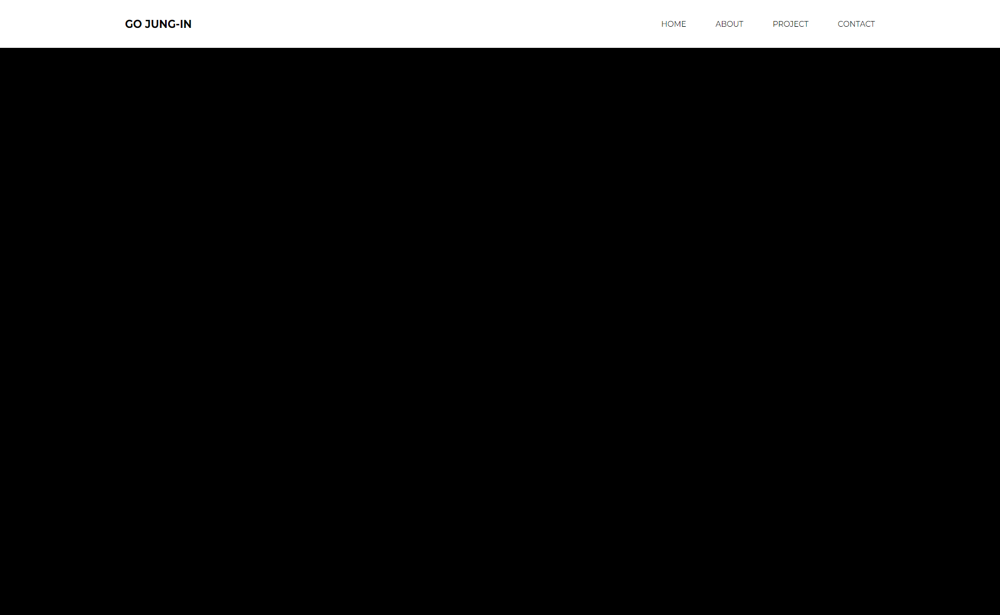
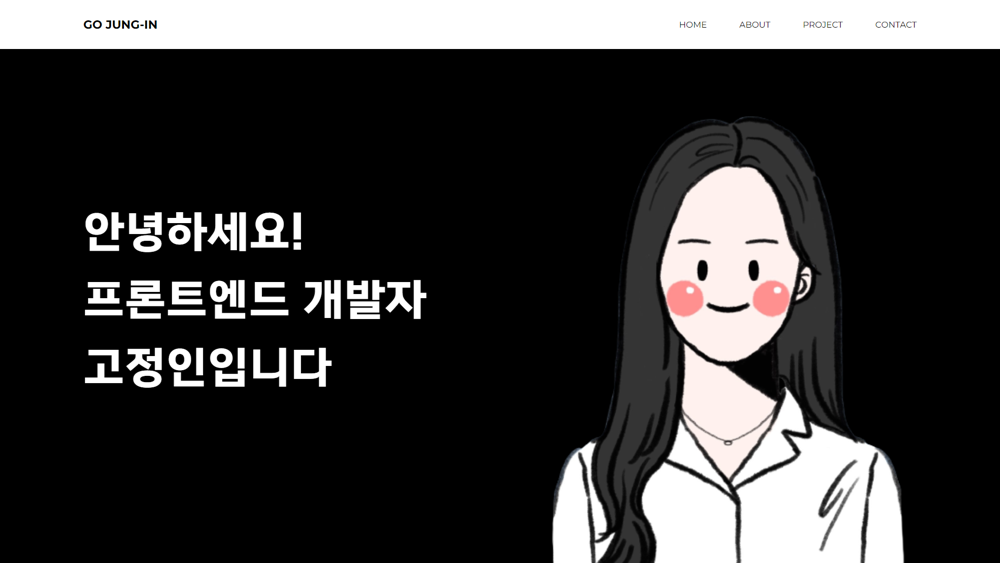
home

diff --git a/src/App.scss b/src/App.scss
@@ -1,23 +1,30 @@
 @import "./config/variables.scss";
 
 @font-face {
-	font-family: "Montserrat-Regular";
-	src: url("./assets/fonts/Montserrat-Regular.ttf") format("truetype");
+  font-family: "Montserrat-Regular";
+  src: url("./assets/fonts/Montserrat-Regular.ttf") format("truetype");
 }
 
 @font-face {
-	font-family: "Montserrat-Bold";
-	src: url("./assets/fonts/Montserrat-Bold.ttf") format("truetype");
+  font-family: "Montserrat-Bold";
+  src: url("./assets/fonts/Montserrat-Bold.ttf") format("truetype");
 }
 
 @font-face {
-	font-family: "NotoSansKR-Regular";
-	src: url("./assets/fonts/NotoSansKR-Regular.otf") format("truetype");
+  font-family: "NotoSansKR-Regular";
+  src: url("./assets/fonts/NotoSansKR-Regular.otf") format("truetype");
 }
 
 @font-face {
-	font-family: "NotoSansKR-Bold";
-	src: url("./assets/fonts/NotoSansKR-Bold.otf") format("truetype");
+  font-family: "NotoSansKR-Bold";
+  src: url("./assets/fonts/NotoSansKR-Bold.otf") format("truetype");
+}
+
+@font-face {
+  font-family: "LeferiPoint-BlackA";
+  src: url("https://cdn.jsdelivr.net/gh/projectnoonnu/noonfonts_2201-2@1.0/LeferiPoint-BlackA.woff") format("woff");
+  font-weight: normal;
+  font-style: normal;
 }
 
 .container {

diff --git a/src/components/Home/Home.js b/src/components/Home/Home.js
@@ -1,17 +1,28 @@
-import React from "react";
+import React, { useEffect, useState } from "react";
 import "./Home.scss";
 
 function Home() {
+  const txt = "안녕하세요!\n프론트엔드 개발자\n고정인입니다";
+  const [text, setText] = useState("");
+  const [count, setCount] = useState(0);
+
+  useEffect(() => {
+    const interval = setInterval(() => {
+      setText(text + txt[count]); // 이전 set한 문자 + 다음 문자
+      setCount(count + 1); // 개수 만큼 체크
+    }, 180);
+
+    if (count === txt.length) {
+      // Count를 따로 두지 않고 Text.length 체크도 가능
+      clearInterval(interval); // 문자열 체크를 통해 setInterval을 해제합니다
+    }
+    return () => clearInterval(interval); // 언마운트시 setInterval을 해제합니다
+  });
+
   return (
     <div id="home">
       <div className="container home_inwrap">
-        <p>
-          안녕하세요
-          <br />
-          프론트엔드 개발자
-          <br />
-          고정인입니다.
-        </p>
+        <p>{text}</p>
       </div>
     </div>
   );

diff --git a/src/components/Home/Home.scss b/src/components/Home/Home.scss
@@ -1,18 +1,39 @@
 #home {
+  position: relative;
   background-color: black;
   height: calc(100vh - 75px);
   padding-top: 75px;
+  overflow: hidden;
 
   .home_inwrap {
+    position: relative;
     display: flex;
     align-items: center;
+
+    &::before {
+      content: "";
+      width: 100%;
+      height: 100%;
+      // background-color: gray;
+      background-image: url(../../assets/itsme2.png);
+      background-repeat: no-repeat;
+      background-size: auto 100%;
+      background-position: right;
+      position: absolute;
+      bottom: 0;
+      right: 0;
+    }
   }
 
   p {
+    // background-color: palevioletred;
+    position: relative;
     color: #ffffff;
-    font-size: 64px;
-    line-height: 87px;
+    font-size: 4rem;
     font-family: "LeferiPoint-BlackA";
+    line-height: 6.5rem;
+    letter-spacing: 1px;
     text-align: left;
+    white-space: pre-wrap;
   }
 }
